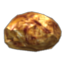
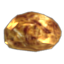
Updated resources again

diff --git a/planet/Objects.c4d/Items.c4d/Resources.c4d/Ice.c4d/Script.c b/planet/Objects.c4d/Items.c4d/Resources.c4d/Ice.c4d/Script.c
@@ -1,30 +1,31 @@
 /*-- Ice --*/
 
-#strict 2
-
-
 protected func Initialize()
 {
-	SetGraphics(Format("%d.8", Random(2)));
+	SetGraphics(Format("%d.8", Random(5)));
 }
 
 protected func Check()
 {
 	if(GetTemperature() > 0) Melt();
-	if(GetTemperature() <= 0 && GetMaterial()==Material("Water")) Freeze();
+	if(GetTemperature() <= 0 && GetMaterial()==Material("Water") && GetCon()<100) Freeze();
 }
 
 private func Melt()
 {
 	CastPXS("Water",2,0);
-	DoCon(-2);
+	DoCon(-1);
 }
 
 private func Freeze()
 {
-	DoCon(2);
+	DoCon(1);
 	var i=2;
-	while(i>0) ExtractLiquid() && i=--i;
+	while(i>0)
+	{
+		ExtractLiquid();
+		i=--i;
+	}
 }
 
 func Definition(def) {

diff --git a/planet/Objects.c4d/Items.c4d/Resources.c4d/Rock.c4d/Script.c b/planet/Objects.c4d/Items.c4d/Resources.c4d/Rock.c4d/Script.c
@@ -1,10 +1,8 @@
 /*--- Der Stein ---*/
 
-#strict 2
-
 protected func Initialize()
 {
-	SetGraphics(Format("%d.8",Random(2)));
+	SetGraphics(Format("%d.8",Random(5)));
 }
 
 protected func Hit()
@@ -13,8 +11,6 @@ protected func Hit()
   return 1;
 }
 
-func IsAlchemContainer() { return true; }
-func AlchemProcessTime() { return 160; }
 func Definition(def) {
   SetProperty("Collectible", 1, def);
   SetProperty("Name", "$Name$", def);

diff --git a/planet/Objects.c4d/Items.c4d/Resources.c4d/Earth.c4d/Script.c b/planet/Objects.c4d/Items.c4d/Resources.c4d/Earth.c4d/Script.c
@@ -1,10 +1,8 @@
 /*--- Earth ---*/
 
-#strict 2
-
 protected func Initialize()
 {
-	SetGraphics(Format("%d.8", Random(2)));
+	SetGraphics(Format("%d.8", Random(5)));
 }
 
 protected func Hit()
@@ -14,9 +12,6 @@ protected func Hit()
   RemoveObject();
   return 1;
 }
-
-func IsAlchemContainer() { return true; }
-func AlchemProcessTime() { return 120; }
 
 func Definition(def) {
   SetProperty("Collectible", 1, def);

diff --git a/planet/Objects.c4d/Items.c4d/Resources.c4d/Loam.c4d/Script.c b/planet/Objects.c4d/Items.c4d/Resources.c4d/Loam.c4d/Script.c
@@ -4,6 +4,11 @@ local last_x, last_y, last_frame, begin_frame;
 
 static const LOAM_Bridge_Time = 50; // frames
 
+protected func Initialize()
+{
+	SetGraphics(Format("%d.8",Random(5)));
+}
+
 func Definition(def) {
   SetProperty("Collectible", 1, def);
   SetProperty("Name", "$Name$", def);

diff --git a/planet/Objects.c4d/Items.c4d/Resources.c4d/Snow.c4d/Script.c b/planet/Objects.c4d/Items.c4d/Resources.c4d/Snow.c4d/Script.c
@@ -1,11 +1,8 @@
 /*-- Snowball --*/
 
-#strict 2
-
-
 protected func Initialize()
 {
-	SetGraphics(Format("%d.8", Random(2)));
+	SetGraphics(Format("%d.8", Random(5)));
 }
 
 protected func Check()

diff --git a/planet/Objects.c4d/Items.c4d/Resources.c4d/Sulphur.c4d/Script.c b/planet/Objects.c4d/Items.c4d/Resources.c4d/Sulphur.c4d/Script.c
@@ -1,10 +1,8 @@
 /*-- Sulphur --*/
 
-#strict 2
-
 protected func Initialize()
 {
-	SetGraphics(Format("%d.8",Random(2)));
+	SetGraphics(Format("%d.8",Random(5)));
 }
 
 protected func Hit()

diff --git a/planet/Objects.c4d/Items.c4d/Resources.c4d/Gold.c4d/Script.c b/planet/Objects.c4d/Items.c4d/Resources.c4d/Gold.c4d/Script.c
@@ -1,10 +1,8 @@
 /*--- Gold ---*/
 
-#strict 2
-
 protected func Initialize()
 {
-	SetGraphics(Format("%d.8",Random(2)));
+	SetGraphics(Format("%d.8",Random(5)));
 }
 
 protected func Hit()

diff --git a/planet/Objects.c4d/Items.c4d/Resources.c4d/Coal.c4d/Script.c b/planet/Objects.c4d/Items.c4d/Resources.c4d/Coal.c4d/Script.c
@@ -1,10 +1,8 @@
 /*-- Coal --*/
 
-#strict 2
-
 protected func Initialize()
 {
-	SetGraphics(Format("%d.8",Random(2)));
+	SetGraphics(Format("%d.8",Random(5)));
 }
 
 protected func Hit()

diff --git a/planet/Objects.c4d/Items.c4d/Resources.c4d/Ore.c4d/Script.c b/planet/Objects.c4d/Items.c4d/Resources.c4d/Ore.c4d/Script.c
@@ -1,10 +1,8 @@
 /*-- Ore --*/
 
-#strict 2
-
 protected func Initialize()
 {
-	SetGraphics(Format("%d.8",Random(2)));
+	SetGraphics(Format("%d.8",Random(5)));
 }
 
 protected func Hit()

diff --git a/planet/Objects.c4d/Items.c4d/Resources.c4d/Wood.c4d/Script.c b/planet/Objects.c4d/Items.c4d/Resources.c4d/Wood.c4d/Script.c
@@ -1,7 +1,5 @@
 /*--- The Log ---*/
 
-#strict 2
-
 protected func Hit()
 {
   Sound("WoodHit*");
